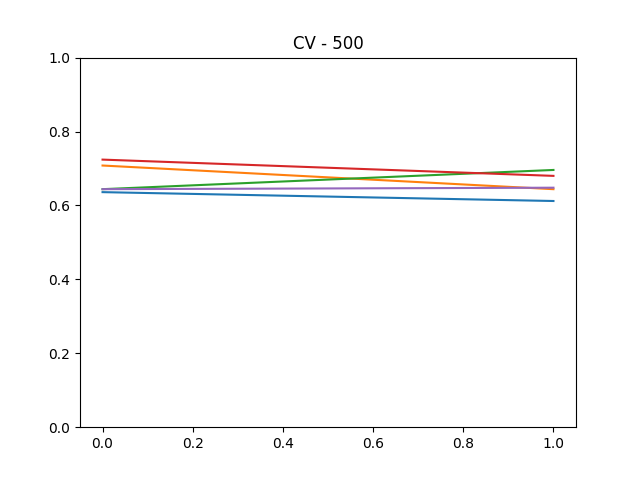
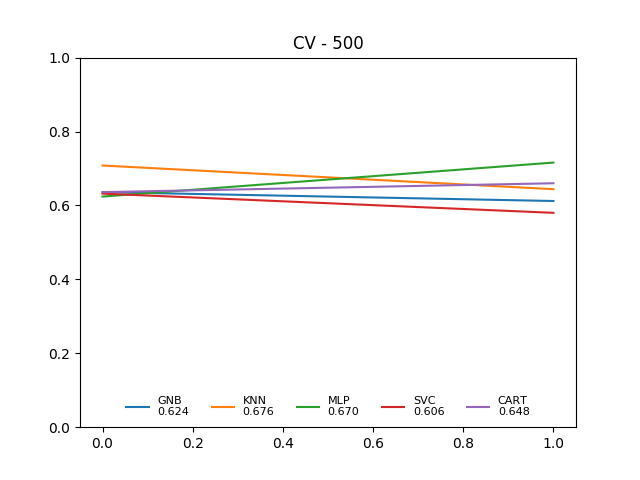
Plots.

diff --git a/stream-experiment.py b/stream-experiment.py
@@ -13,6 +13,7 @@ from sklearn.preprocessing import StandardScaler
 
 BASE_CV = 1000
 
+methods = ["GNB", "KNN", "MLP", "SVC", "CART"]
 
 class StreamFromFile:
     def __init__(
@@ -64,7 +65,7 @@ used_features = [2, 10, 50, 100, 200, 500]
 
 for n_components in used_features:
     # PCA
-    stream = StreamFromFile("data/cv.npz", n_components=10, n_chunks=10, use_PCA=True)
+    stream = StreamFromFile("data/cv.npz", n_components=10, n_chunks=3, use_PCA=True)
     clfs = [
         sl.ensembles.SEA(GaussianNB(), n_estimators=5),
         sl.ensembles.SEA(KNeighborsClassifier(), n_estimators=5),
@@ -79,6 +80,21 @@ for n_components in used_features:
     print(np.mean(eval.scores, axis=1))
 
     plt.plot(np.squeeze(eval.scores).T)
+
+    for value, label, mean in zip(np.squeeze(eval.scores), methods, np.mean(eval.scores, axis=1)):
+        label += "\n{0:.3f}".format(mean[0])
+        plt.plot(value, label=label)
+
+    plt.legend(
+        loc=8,
+        # bbox_to_anchor=(0.5, -0.1),
+        fancybox=False,
+        shadow=True,
+        ncol=5,
+        fontsize=8,
+        frameon=False,
+    )
+
     plt.ylim(0, 1)
     plt.title("PCA - %i" % n_components)
 
@@ -90,7 +106,7 @@ for n_components in used_features:
     plt.clf()
 
     # CV
-    stream = StreamFromFile("data/cv.npz", n_components=10, n_chunks=10, use_PCA=False)
+    stream = StreamFromFile("data/cv.npz", n_components=10, n_chunks=3, use_PCA=False)
     clfs = [
         sl.ensembles.SEA(GaussianNB(), n_estimators=5),
         sl.ensembles.SEA(KNeighborsClassifier(), n_estimators=5),
@@ -104,7 +120,22 @@ for n_components in used_features:
     print(eval.scores, eval.scores.shape)
     print(np.mean(eval.scores, axis=1))
 
-    plt.plot(np.squeeze(eval.scores).T)
+    # plt.plot(np.squeeze(eval.scores).T)
+
+    for value, label, mean in zip(np.squeeze(eval.scores), methods, np.mean(eval.scores, axis=1)):
+        label += "\n{0:.3f}".format(mean[0])
+        plt.plot(value, label=label)
+
+    plt.legend(
+        loc=8,
+        # bbox_to_anchor=(0.5, -0.1),
+        fancybox=False,
+        shadow=True,
+        ncol=5,
+        fontsize=8,
+        frameon=False,
+    )
+
     plt.ylim(0, 1)
     plt.title("CV - %i" % n_components)
 
